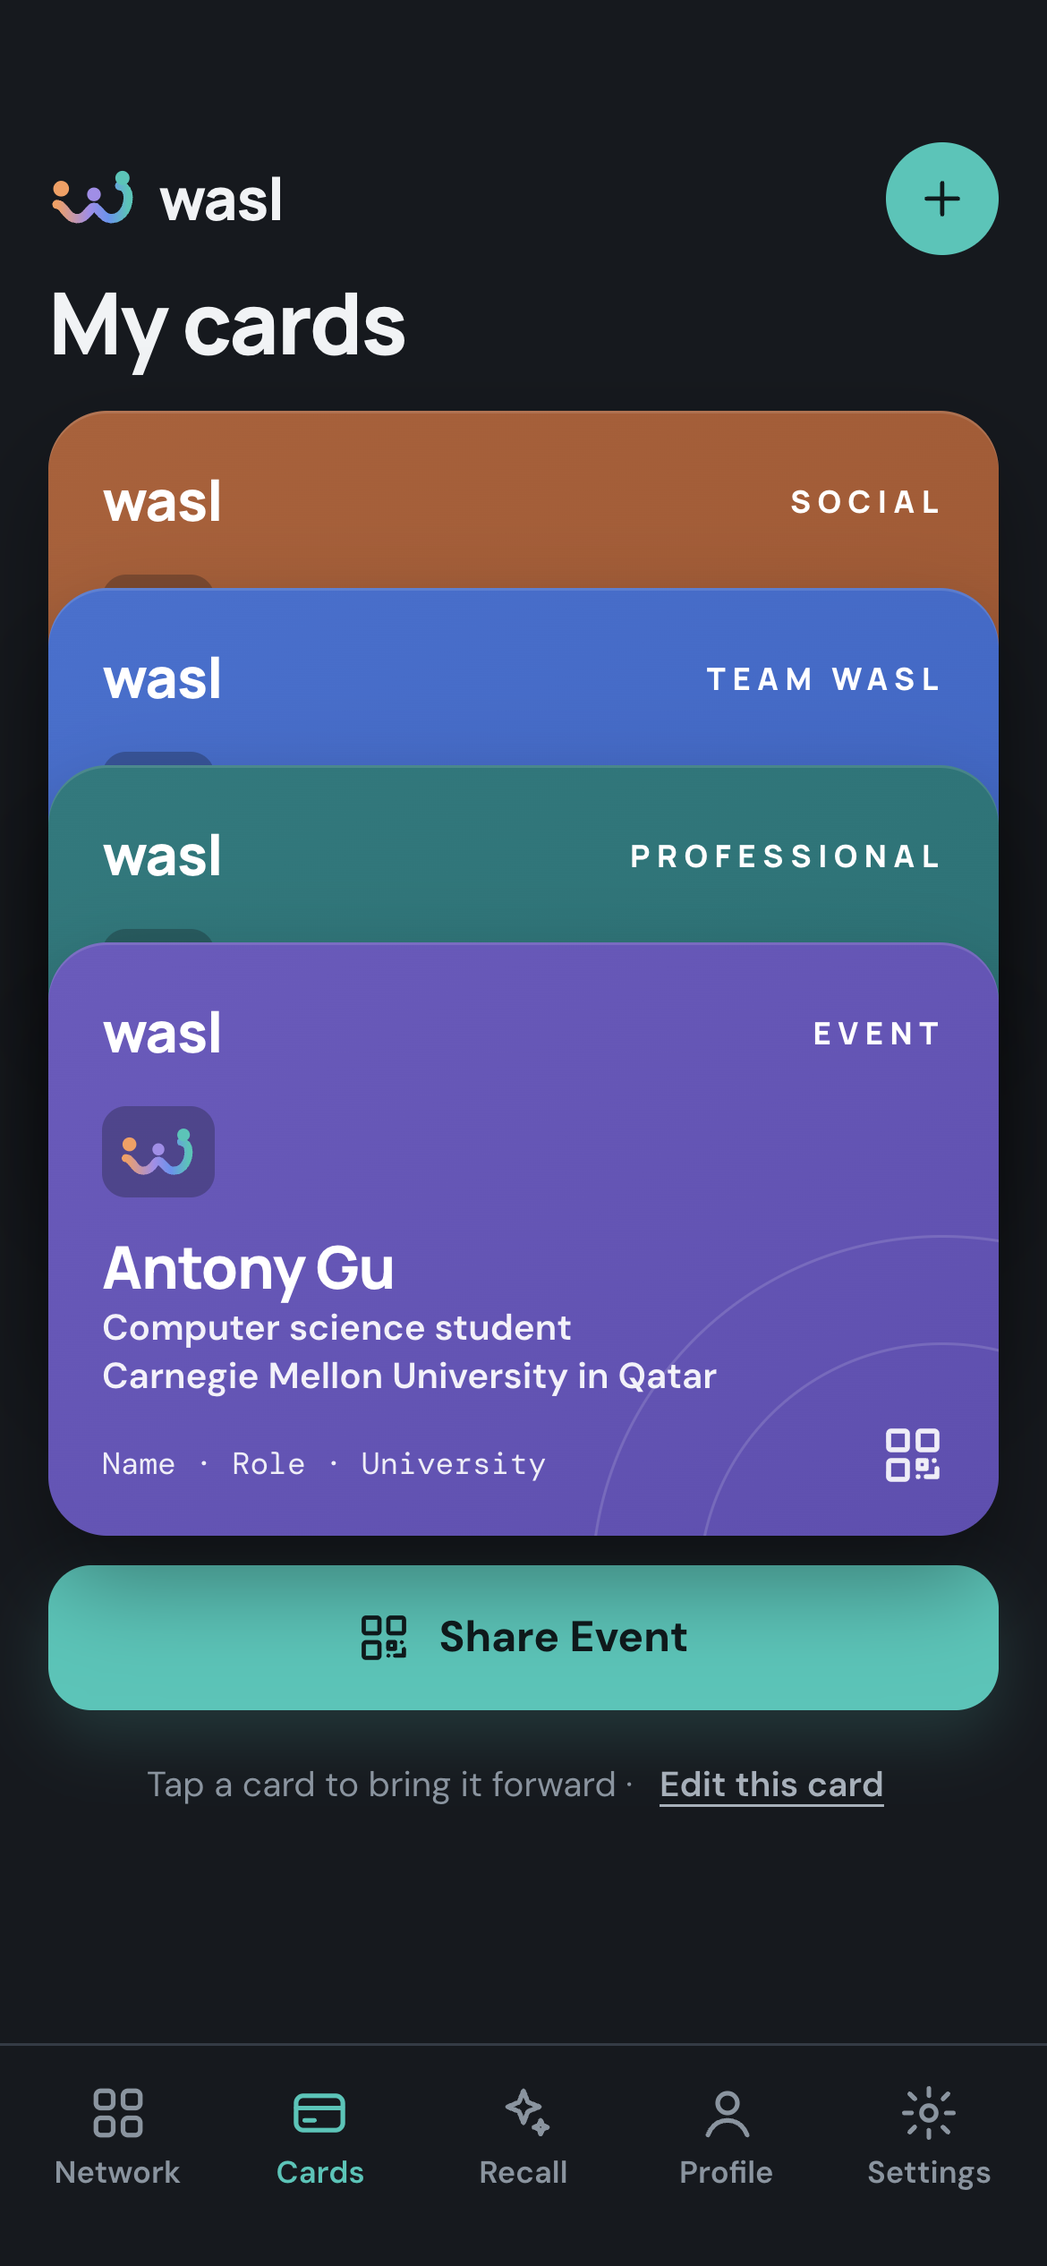
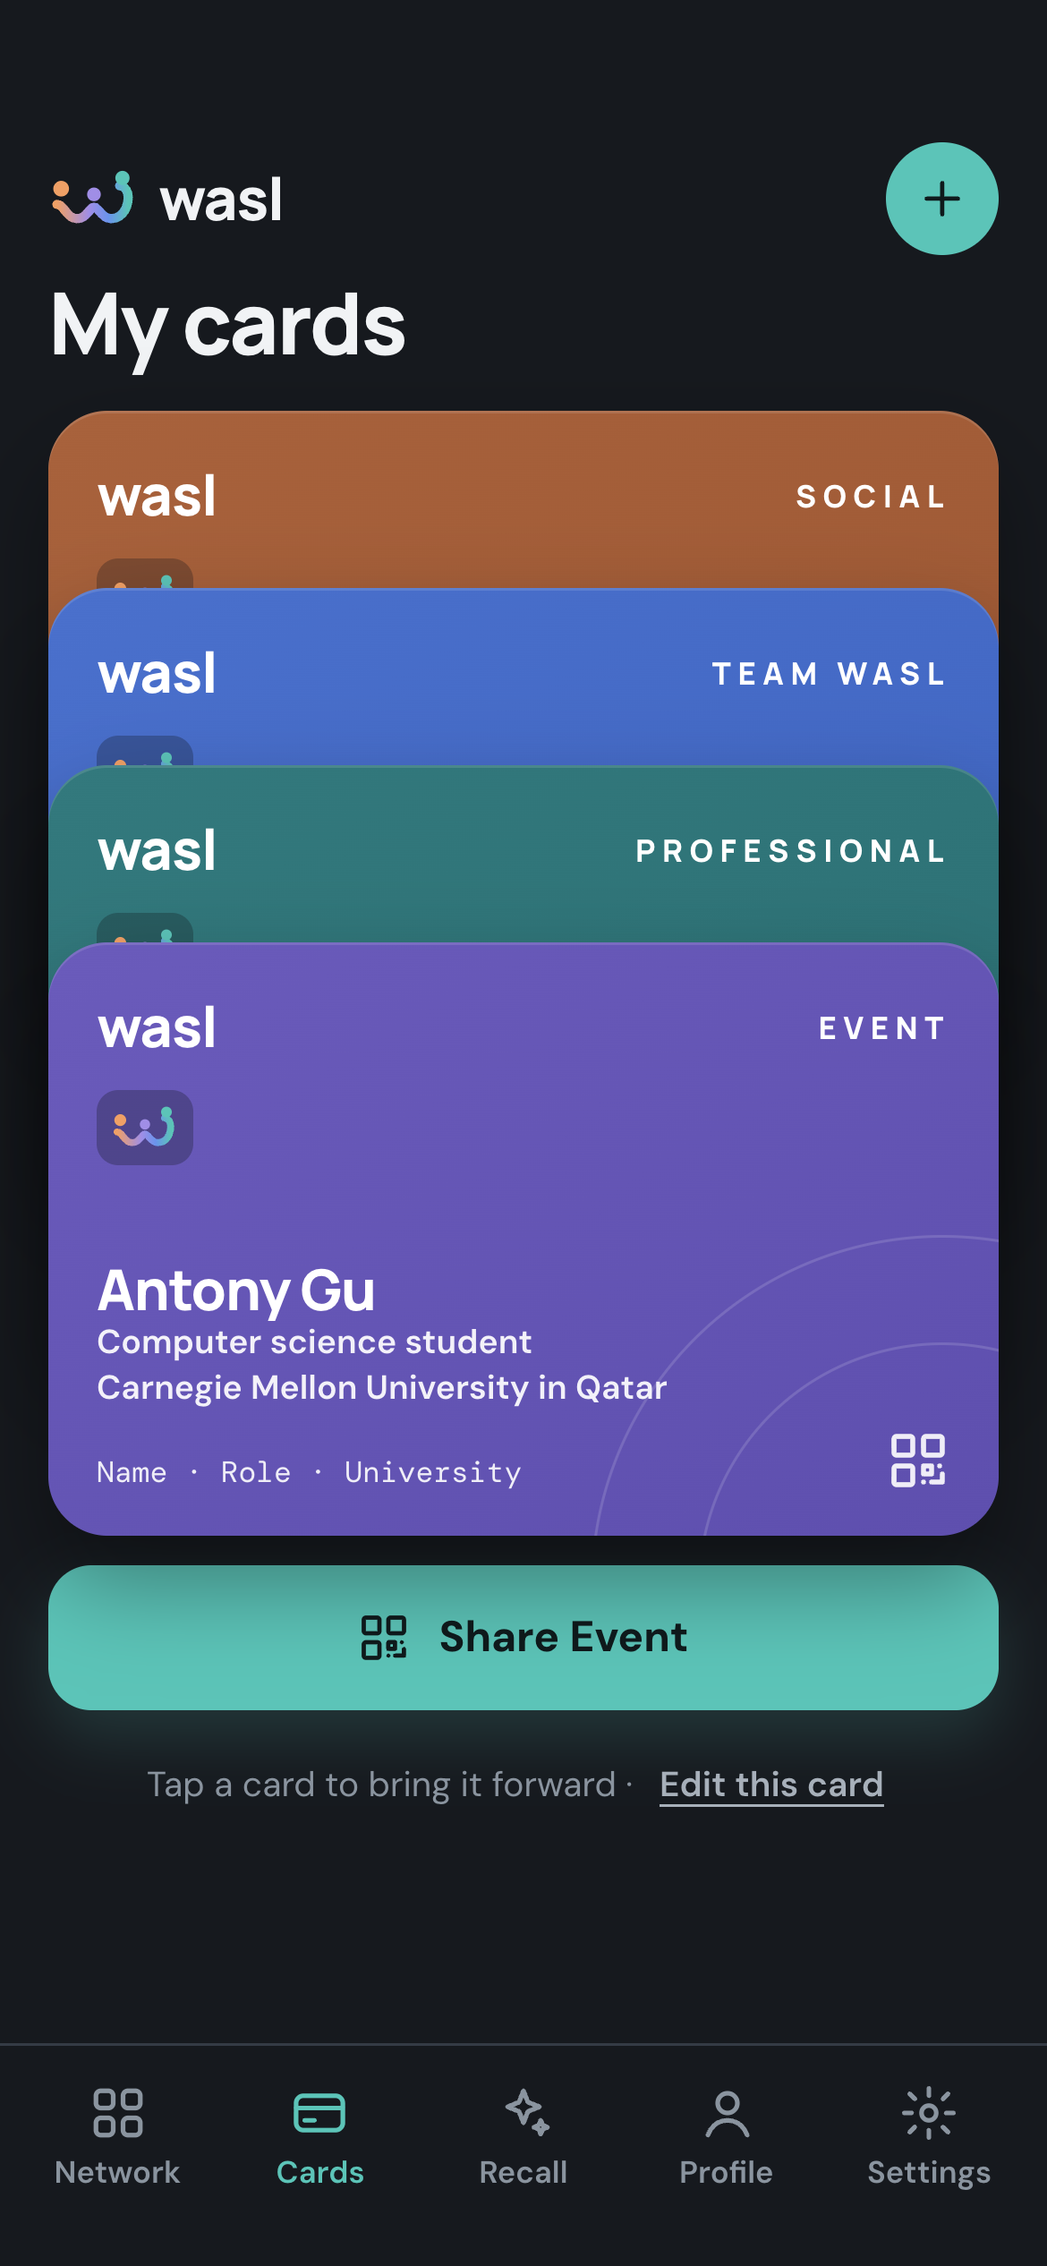
Update the mockup with varied cards, phone fixes and paper card scanning

diff --git a/index.html b/index.html
@@ -296,10 +296,11 @@ h1, h2, h3 { font-family: var(--display); text-wrap: balance; }
 .card {
   position: relative;
   border-radius: 22px;
-  padding: 18px 20px;
+  padding: 16px 18px;
   color: var(--card-text);
   overflow: hidden;
   aspect-ratio: 1.6 / 1;
+  min-height: 0;
   max-width: 100%;
   display: flex; flex-direction: column;
   box-shadow: 0 18px 34px rgba(0, 0, 0, 0.35), inset 0 1px 0 rgba(255, 255, 255, 0.12);
@@ -323,12 +324,22 @@ h1, h2, h3 { font-family: var(--display); text-wrap: balance; }
 .card .c-top { display: flex; justify-content: space-between; align-items: center; }
 .card .c-word { font-family: var(--display); font-weight: 800; font-size: 21px; letter-spacing: -0.4px; }
 .card .c-kind { font-family: var(--display); font-weight: 800; font-size: 11.5px; letter-spacing: 0.22em; }
-.card .c-tile { width: 42px; height: 34px; border-radius: 9px; background: rgba(15, 18, 24, 0.28); display: grid; place-items: center; margin-top: 12px; }
-.card .c-tile svg { width: 30px; height: 19px; }
-.card .c-name { font-family: var(--display); font-weight: 800; font-size: 22px; letter-spacing: -0.4px; margin-top: auto; line-height: 1.15; }
-.card .c-line { font-size: 13.5px; font-weight: 600; opacity: 0.92; line-height: 1.35; }
-.card .c-foot { display: flex; justify-content: space-between; align-items: flex-end; margin-top: 8px; gap: 8px; }
-.card .c-mono { font-family: var(--mono); font-size: 11.5px; opacity: 0.9; overflow: hidden; text-overflow: ellipsis; white-space: nowrap; }
+.card .c-tile { width: 36px; height: 28px; border-radius: 8px; background: rgba(15, 18, 24, 0.28); display: grid; place-items: center; margin-top: 8px; flex: none; }
+.card .c-tile svg { width: 26px; height: 16px; }
+.card .c-name { font-family: var(--display); font-weight: 800; font-size: 21px; letter-spacing: -0.4px; margin-top: auto; line-height: 1.15; overflow: hidden; text-overflow: ellipsis; white-space: nowrap; }
+.card .c-line { font-size: 12.5px; font-weight: 600; opacity: 0.92; line-height: 1.35; overflow: hidden; text-overflow: ellipsis; white-space: nowrap; }
+.card .c-foot { display: flex; justify-content: space-between; align-items: flex-end; margin-top: 6px; gap: 8px; }
+.card .c-contacts { display: flex; flex-direction: column; min-width: 0; }
+.card .c-mono { font-family: var(--mono); font-size: 11px; line-height: 1.4; opacity: 0.9; overflow: hidden; text-overflow: ellipsis; white-space: nowrap; }
+/* small cards fanned out on the welcome screen: fixed size so long text can never stretch them */
+.card.mini { width: 196px; height: 122px; aspect-ratio: auto; padding: 12px 14px; border-radius: 16px; }
+.card.mini .c-word { font-size: 16px; }
+.card.mini .c-kind { font-size: 9px; letter-spacing: 0.18em; }
+.card.mini .c-tile { width: 28px; height: 22px; margin-top: 6px; }
+.card.mini .c-tile svg { width: 20px; height: 13px; }
+.card.mini .c-name { font-size: 16px; }
+.card.mini .c-line { font-size: 10.5px; }
+.card.mini .c-foot { display: none; }
 .card .c-qr { width: 24px; height: 24px; flex: none; opacity: 0.9; }
 .card .f { border-radius: 6px; transition: background 120ms; }
 .card.editing .f { cursor: pointer; outline: 1px dashed rgba(255, 255, 255, 0.35); outline-offset: 2px; padding: 0 3px; margin-left: -3px; }
@@ -347,8 +358,8 @@ h1, h2, h3 { font-family: var(--display); text-wrap: balance; }
 .join-hero svg.big { width: 128px; height: 82px; }
 .join-hero .wm { font-family: var(--display); font-weight: 800; font-size: 44px; letter-spacing: -1.2px; line-height: 1; }
 .join-hero p { color: var(--text-2); max-width: 26ch; }
-.fan { position: relative; height: 170px; margin: 18px 0 8px; }
-.fan .card { position: absolute; width: 210px; left: 50%; top: 10px; }
+.fan { position: relative; height: 160px; margin: 18px 0 8px; }
+.fan .card { position: absolute; left: 50%; top: 14px; }
 .viewfinder {
   position: relative;
   border-radius: 24px;
@@ -675,16 +686,17 @@ h1, h2, h3 { font-family: var(--display); text-wrap: balance; }
   const KIND = { pro: "PROFESSIONAL", event: "EVENT", social: "SOCIAL", team: "TEAM WASL" };
   const COLOR_NAME = { pro: "Deep teal", event: "Deep violet", social: "Copper", team: "Deep blue" };
 
+  // Each person shares a different set of details, the way real cards differ.
   const MARIAM = {
     id: "mariam", name: "Mariam Ali", role: "Software engineer", org: "Pearl Labs",
-    mono: "mariam@pearllabs.example", color: "team", kind: "PROFESSIONAL",
+    contacts: ["mariam@pearllabs.example", "linkedin.com/in/mariamali"], color: "team", kind: "PROFESSIONAL",
   };
   const TONIGHT = [
     MARIAM,
-    { id: "omar", name: "Omar Haddad", role: "Product designer", org: "Dhow Design Studio", mono: "@omar.designs", color: "social", kind: "SOCIAL", note: "Showed his portfolio app" },
-    { id: "lina", name: "Lina Farouk", role: "Data scientist", org: "Falcon Analytics", mono: "lina@falcon.example", color: "pro", kind: "PROFESSIONAL", note: "Talked about her NLP research" },
-    { id: "yousef", name: "Yousef Al-Kuwari", role: "Founder", org: "Najm Robotics", mono: "yousef@najm.example", color: "event", kind: "EVENT", note: "Looking for a first engineer" },
-    { id: "sara", name: "Sara Nasser", role: "Talent partner", org: "Corniche Capital", mono: "sara@corniche.example", color: "team", kind: "PROFESSIONAL", note: "Runs their internship program" },
+    { id: "omar", name: "Omar Haddad", contacts: ["@omar.designs", "omar.haddad@mail.example"], color: "social", kind: "SOCIAL", role: "Product designer", org: "Dhow Design Studio", hideWork: true, note: "Showed his portfolio app" },
+    { id: "lina", name: "Lina Farouk", role: "Data scientist", org: "Falcon Analytics", contacts: ["lina@falcon.example", "linkedin.com/in/linafarouk"], color: "pro", kind: "PROFESSIONAL", note: "Talked about her NLP research" },
+    { id: "yousef", name: "Yousef Al-Kuwari", role: "Founder", org: "Najm Robotics", contacts: ["+974 5530 1188"], color: "event", kind: "EVENT", note: "Looking for a first engineer" },
+    { id: "sara", name: "Sara Nasser", role: "Talent partner", org: "Corniche Capital", contacts: ["sara@corniche.example"], color: "team", kind: "PROFESSIONAL", note: "Runs their internship program" },
   ];
   const OLDER = [
     { name: "Hamad Al-Thani", role: "Mentor, venture studio", org: "Bayt Ventures", event: "Web Summit Qatar", tag: "Mentor", color: "pro", when: "Oct 12" },
@@ -707,10 +719,10 @@ h1, h2, h3 { font-family: var(--display); text-wrap: balance; }
     profileFilled: false,
     extra: { instagram: false, photo: false },
     cards: {
-      pro: { color: "pro", fields: ["name", "role", "org", "email"] },
+      pro: { color: "pro", fields: ["name", "role", "org", "email", "linkedin"] },
       event: { color: "event", fields: ["name", "role", "org"] },
-      social: { color: "social", fields: ["name", "org", "instagram"] },
-      team: { color: "team", fields: ["name", "role", "email"] },
+      social: { color: "social", fields: ["name", "email", "instagram"] },
+      team: { color: "team", fields: ["name", "role", "phone"] },
     },
     order: ["social", "team", "pro", "event"],
     front: "event",
@@ -750,32 +762,34 @@ h1, h2, h3 { font-family: var(--display); text-wrap: balance; }
     const c = opts.data || S.cards[id];
     const fields = c.fields;
     const isEdit = !!opts.edit;
-    const body = ["name", "role", "org"].filter((f) => fields.includes(f));
+    const mini = !!opts.mini;
+    const body = ["name", "role", "org"].filter((f) => fields.includes(f) && !(mini && f === "org"));
     const contact = fields.filter((f) => !["name", "role", "org"].includes(f));
     const fEl = (f, cls, text) =>
       isEdit && f !== "name"
         ? `<span class="f ${cls}" data-act="hide-field" data-f="${f}" role="button" tabindex="0" aria-label="Hide ${FIELD_META[f].label}">${esc(text)}</span>`
         : `<span class="f ${cls} ${isEdit ? "locked" : ""}">${esc(text)}</span>`;
-    return `<${opts.tag || "div"} class="card ${c.color} ${isEdit ? "editing" : ""} ${opts.cls || ""}" ${opts.attrs || ""}>
+    return `<${opts.tag || "div"} class="card ${c.color} ${isEdit ? "editing" : ""} ${mini ? "mini" : ""} ${opts.cls || ""}" ${opts.attrs || ""}>
       <div class="c-top"><span class="c-word">wasl</span><span class="c-kind">${KIND[id] || ""}</span></div>
       <div class="c-tile">${symbol()}</div>
       ${body.includes("name") ? `<div class="c-name">${fEl("name", "", ME.name)}</div>` : ""}
       ${body.filter((f) => f !== "name").map((f) => `<div class="c-line">${fEl(f, "", fieldValue(f))}</div>`).join("")}
       <div class="c-foot">
-        <span class="c-mono">${contact.length ? contact.map((f) => fEl(f, "", fieldValue(f))).join(" · ") : body.map((f) => FIELD_META[f].label).join(" · ")}</span>
+        <span class="c-contacts">${contact.length ? contact.map((f) => `<span class="c-mono">${fEl(f, "", fieldValue(f))}</span>`).join("") : `<span class="c-mono">${body.map((f) => FIELD_META[f].label).join(" · ")}</span>`}</span>
         <span class="c-qr">${ic("qr")}</span>
       </div>
     </${opts.tag || "div"}>`;
   }
   function personCard(p, opts = {}) {
+    const lines = p.hideWork ? [] : [p.role, p.org].filter(Boolean);
+    const contacts = opts.foot ? [opts.foot] : p.contacts || [];
     return `<div class="card ${p.color} ${opts.cls || ""}" ${opts.attrs || ""}>
       <div class="c-top"><span class="c-word">wasl</span><span class="c-kind">${p.kind || "PROFESSIONAL"}</span></div>
       <div class="c-tile">${symbol()}</div>
       <div class="c-name">${esc(p.name)}</div>
-      <div class="c-line">${esc(p.role)}</div>
-      <div class="c-line">${esc(p.org)}</div>
+      ${lines.map((l) => `<div class="c-line">${esc(l)}</div>`).join("")}
       ${opts.note ? `<div class="note">${esc(opts.note)}</div>` : ""}
-      <div class="c-foot"><span class="c-mono">${esc(p.mono || "")}</span><span class="c-qr">${ic("qr")}</span></div>
+      <div class="c-foot"><span class="c-contacts">${contacts.map((x) => `<span class="c-mono">${esc(x)}</span>`).join("")}</span><span class="c-qr">${ic("qr")}</span></div>
       ${opts.stamps ? '<span class="stamp fav">FAVORITE</span><span class="stamp keep">CONTACT</span>' : ""}
     </div>`;
   }
@@ -825,9 +839,9 @@ h1, h2, h3 { font-family: var(--display); text-wrap: balance; }
           <p>Never forget who you met, or why it mattered.</p>
         </div>
         <div class="fan" aria-hidden="true">
-          ${card("social", { cls: "", attrs: 'style="transform:translateX(-82%) rotate(-12deg) scale(.9)"' })}
-          ${card("event", { attrs: 'style="transform:translateX(-18%) rotate(10deg) scale(.9)"' })}
-          ${card("pro", { attrs: 'style="transform:translateX(-50%) rotate(-1deg) scale(.95);top:18px"' })}
+          ${card("social", { mini: true, attrs: 'style="transform:translateX(-88%) rotate(-12deg) scale(.9)"' })}
+          ${card("event", { mini: true, attrs: 'style="transform:translateX(-12%) rotate(10deg) scale(.9)"' })}
+          ${card("pro", { mini: true, attrs: 'style="transform:translateX(-50%) rotate(-2deg);top:24px"' })}
         </div>
         <div class="stack" style="margin-top:22px">
           <button class="btn" data-act="scan-own">${ic("scan")}Scan my business card</button>
@@ -901,10 +915,29 @@ h1, h2, h3 { font-family: var(--display); text-wrap: balance; }
 
     exchange() {
       const kind = KIND[S.front].charAt(0) + KIND[S.front].slice(1).toLowerCase();
+      if (S.exPhase === "paper")
+        return `${back("exchange-reset", "Cancel")}
+          <h2 class="title" style="font-size:26px">Scan their paper card</h2>
+          <p class="sub">No Wasl? Hold their business card inside the frame.</p>
+          <div class="viewfinder" style="margin-top:18px">
+            <div class="paper"><b>Mariam Ali</b><span>Software engineer</span><span>Pearl Labs</span><span class="m">mariam@pearllabs.example<br>+974 5571 2290 · pearllabs.example</span></div>
+            <div class="corners"><i></i><i></i><i></i><i></i></div><div class="scanline"></div>
+          </div>
+          <p class="hint" style="margin-top:14px">Reading the card…</p>`;
+      if (S.exPhase === "paperfound") {
+        const rows = [["Name", "Mariam Ali"], ["Role", "Software engineer"], ["Company", "Pearl Labs"], ["Email", "mariam@pearllabs.example"], ["Phone", "+974 5571 2290"]];
+        return `${back("exchange-reset", "Start over")}
+          <h2 class="title" style="font-size:26px">Found 5 details</h2>
+          <p class="sub">Check them before saving. Wasl sends Mariam an invite to get her own card.</p>
+          <div class="panel" style="margin:18px 0">
+            <ul class="found">${rows.map(([k, v], i) => `<li style="animation-delay:${i * 110}ms"><span class="k">${k}</span><span class="v">${esc(v)}</span></li>`).join("")}</ul>
+          </div>
+          <button class="btn" data-act="paper-save">${ic("check")}Save Mariam</button>`;
+      }
       if (S.exPhase === "done")
         return `${back("wallet", "Cards")}
-          <h2 class="title" style="font-size:26px">You swapped cards with Mariam</h2>
-          <p class="sub">She has your ${kind} card. Hers is now in your wallet.</p>
+          <h2 class="title" style="font-size:26px">${S.swappedWith === "paper" ? "Mariam's paper card is saved" : "You swapped cards with Mariam"}</h2>
+          <p class="sub">${S.swappedWith === "paper" ? "Wasl turned it into a card and invited her to join." : `She has your ${kind} card. Hers is now in your wallet.`}</p>
           <div style="margin:18px 0">${personCard(MARIAM)}</div>
           <button class="btn" data-go="save">${ic("check")}Save Mariam</button>`;
       return `${back("wallet", "Cards")}
@@ -918,7 +951,8 @@ h1, h2, h3 { font-family: var(--display); text-wrap: balance; }
         <div class="row" style="margin-top:12px">
           <div style="width:72px;height:72px;flex:none">${qrSvg(7)}</div>
           <button class="btn" data-act="do-swap" ${S.exPhase === "swapping" ? "disabled" : ""}>${ic("scan")}Scan Mariam's code</button>
-        </div>`;
+        </div>
+        <button class="link" style="display:block;margin:10px auto 0" data-act="scan-paper">No Wasl? Scan their paper card</button>`;
     },
 
     save() {
@@ -1031,7 +1065,7 @@ h1, h2, h3 { font-family: var(--display); text-wrap: balance; }
       return `${back("network", "Network")}
         <h2 class="title" style="font-size:26px">${esc(a.name)}</h2>
         <p class="sub">${ps.length} cards · swipe to flip through</p>
-        <div class="flip" style="margin-top:14px">${ps.map((p) => personCard({ ...p, mono: p.when ? "Met " + p.when : "" })).join("")}</div>
+        <div class="flip" style="margin-top:14px">${ps.map((p) => personCard(p, { foot: p.when ? "Met " + p.when : "" })).join("")}</div>
         <ul class="people">${ps.map(personRow).join("")}</ul>`;
     },
 
@@ -1044,7 +1078,7 @@ h1, h2, h3 { font-family: var(--display); text-wrap: balance; }
         results = r.length
           ? r.map((m, i) => `<div style="margin-top:${i ? 18 : 16}px">
               <div class="row" style="justify-content:space-between;margin-bottom:8px"><span class="label">${i ? "Also possible" : "Best match"}</span><span class="match">${m.score}% match</span></div>
-              ${personCard(m.p, { cls: "", attrs: `style="${i ? "aspect-ratio:2.4/1" : ""}"` })}
+              ${personCard(m.p)}
               <div class="panel why" style="margin-top:10px"><span class="label" style="color:var(--violet)">Why it matched</span><q>${esc(m.why)}</q><span class="src" style="color:var(--muted);font-size:12px;display:block;margin-top:6px">${esc(m.src)}</span></div>
             </div>`).join("")
           : `<div class="panel stack" style="margin-top:16px"><b>No one matched that</b><p class="sub">Try what they did, where you met, or what you talked about.</p></div>`;
@@ -1100,7 +1134,7 @@ h1, h2, h3 { font-family: var(--display); text-wrap: balance; }
   function personRow(p) {
     const initials = p.name.split(" ").map((w) => w[0]).slice(0, 2).join("");
     const act = p.id === "mariam" ? 'data-go="remember"' : "";
-    return `<li><button class="person" ${act}><span class="mini" style="background:var(--card-${p.color})">${initials}</span><span class="pv"><b>${esc(p.name)}</b><span>${esc(p.role)} · ${esc(p.org)}</span></span>${p.fav ? ic("star", 'class="star"') : ""}<span class="label" style="flex:none">${esc(p.when)}</span></button></li>`;
+    return `<li><button class="person" ${act}><span class="mini" style="background:var(--card-${p.color})">${initials}</span><span class="pv"><b>${esc(p.name)}</b><span>${esc(p.hideWork ? p.contacts.join(" · ") : `${p.role} · ${p.org}`)}</span></span>${p.fav ? ic("star", 'class="star"') : ""}<span class="label" style="flex:none">${esc(p.when)}</span></button></li>`;
   }
   function recallMatch(q) {
     const t = q.toLowerCase();
@@ -1109,7 +1143,7 @@ h1, h2, h3 { font-family: var(--display); text-wrap: balance; }
     const out = [];
     if (has("cto", "intro", "engineer", "pearl", "payments")) {
       out.push({ p: m[0], score: 94, why: S.summary ? "Offered an intro to her CTO" : "Software engineer at Pearl Labs", src: S.summary ? "Your chat summary · Campus networking night, tonight" : "Her card · Campus networking night, tonight" });
-      if (has("intro")) out.push({ p: { ...OLDER[2], mono: "Met Sep 28", kind: "PROFESSIONAL" }, score: 61, why: "Tagged Intro offered", src: "Your tag · CMU-Q alumni mixer, Sep 28" });
+      if (has("intro")) out.push({ p: { ...OLDER[2], contacts: ["daniel@pearllabs.example"], kind: "PROFESSIONAL" }, score: 61, why: "Tagged Intro offered", src: "Your tag · CMU-Q alumni mixer, Sep 28" });
     } else if (has("design", "portfolio")) {
       out.push({ p: m[1], score: 91, why: "Showed his portfolio app", src: "Your memory · Campus networking night, tonight" });
     } else if (has("hiring", "intern", "job", "recruit")) {
@@ -1209,6 +1243,7 @@ h1, h2, h3 { font-family: var(--display); text-wrap: balance; }
   // ---------- actions ----------
   function go(to) {
     if (to === "join-reset") { S.joinPhase = "choose"; S.screen = "join"; }
+    else if (to === "exchange-reset") { S.exPhase = "ready"; S.screen = "exchange"; }
     else if (to === "save" && !S.swappedWith) { setupTo(3); }
     else if (to === "remember" && !S.swappedWith) { setupTo(4); }
     else S.screen = to;
@@ -1261,6 +1296,19 @@ h1, h2, h3 { font-family: var(--display); text-wrap: balance; }
       render();
       buzz();
       later(950, () => { S.exPhase = "done"; S.swappedWith = S.front; render(); xpToast("New connection", 30); });
+    },
+    "scan-paper"() {
+      S.exPhase = "paper";
+      render();
+      later(1900, () => { if (S.exPhase === "paper") { S.exPhase = "paperfound"; render(); } });
+    },
+    "paper-save"() {
+      if (!S.profileFilled) S.profileFilled = true;
+      S.swappedWith = "paper";
+      S.exPhase = "done";
+      S.screen = "save";
+      render();
+      xpToast("New connection", 30);
     },
     "confirm-ctx"() { S.ctxConfirmed = true; S.mariamSaved = true; render(); xpToast("Story saved", 10); },
     "change-ctx"() { toast("You can pick another event or place here"); },
@@ -1422,7 +1470,7 @@ h1, h2, h3 { font-family: var(--display); text-wrap: balance; }
   const STEPS = [
     { n: "1", t: "Join", wow: 1, h: "Scan your card. Your profile fills itself.", screen: "join" },
     { n: "2", t: "Build", wow: 1, h: "Tap details on the card to hide them. Pick a color.", screen: "build" },
-    { n: "3", t: "Share", wow: 1, h: "Pick a card from the wallet and swap with Mariam.", screen: "wallet" },
+    { n: "3", t: "Share", wow: 1, h: "Swap cards with Mariam, or scan her paper card.", screen: "wallet" },
     { n: "4", t: "Save", wow: 2, h: "Confirm where you met. Add a tag.", screen: "save" },
     { n: "5", t: "Remember", wow: 2, h: "Hold the mic. AI keeps only what mattered.", screen: "remember" },
     { n: "+", t: "Debrief", wow: 2, h: "Bonus: swipe through tonight's people.", screen: "debrief" },
